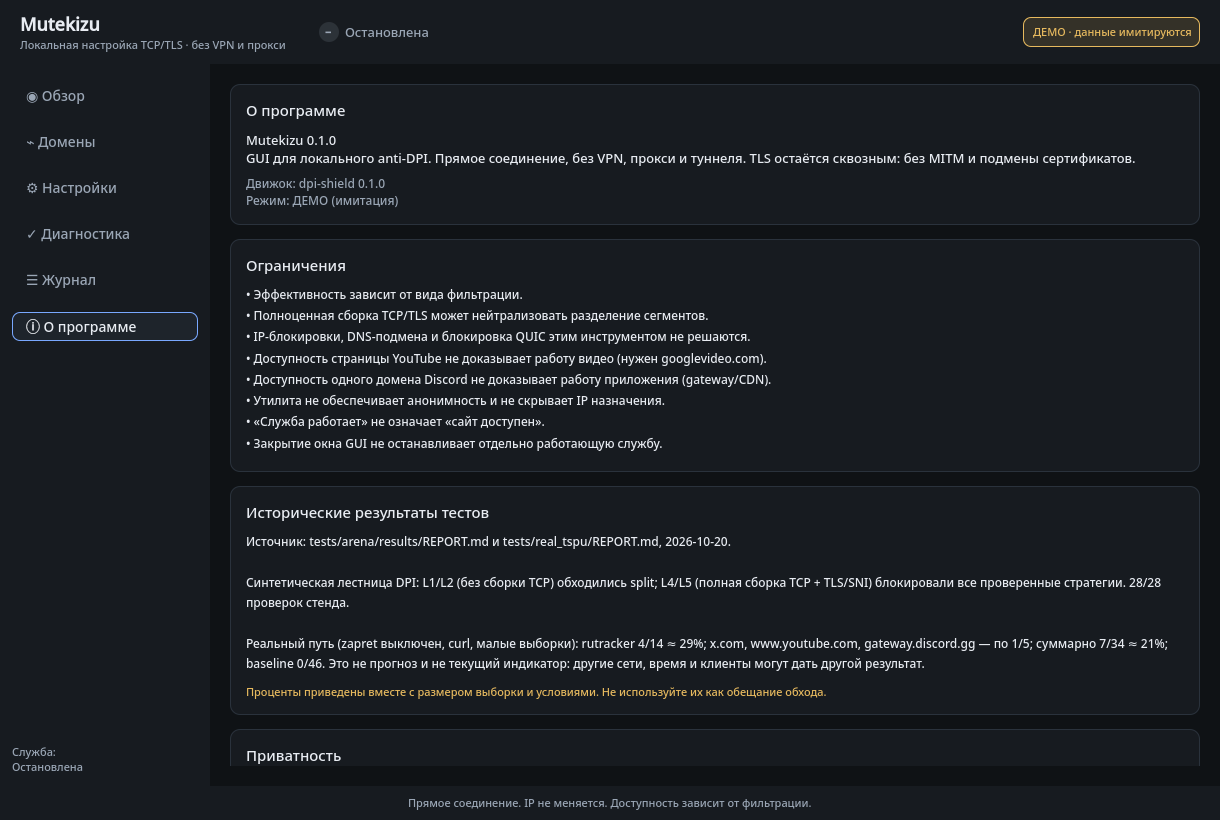
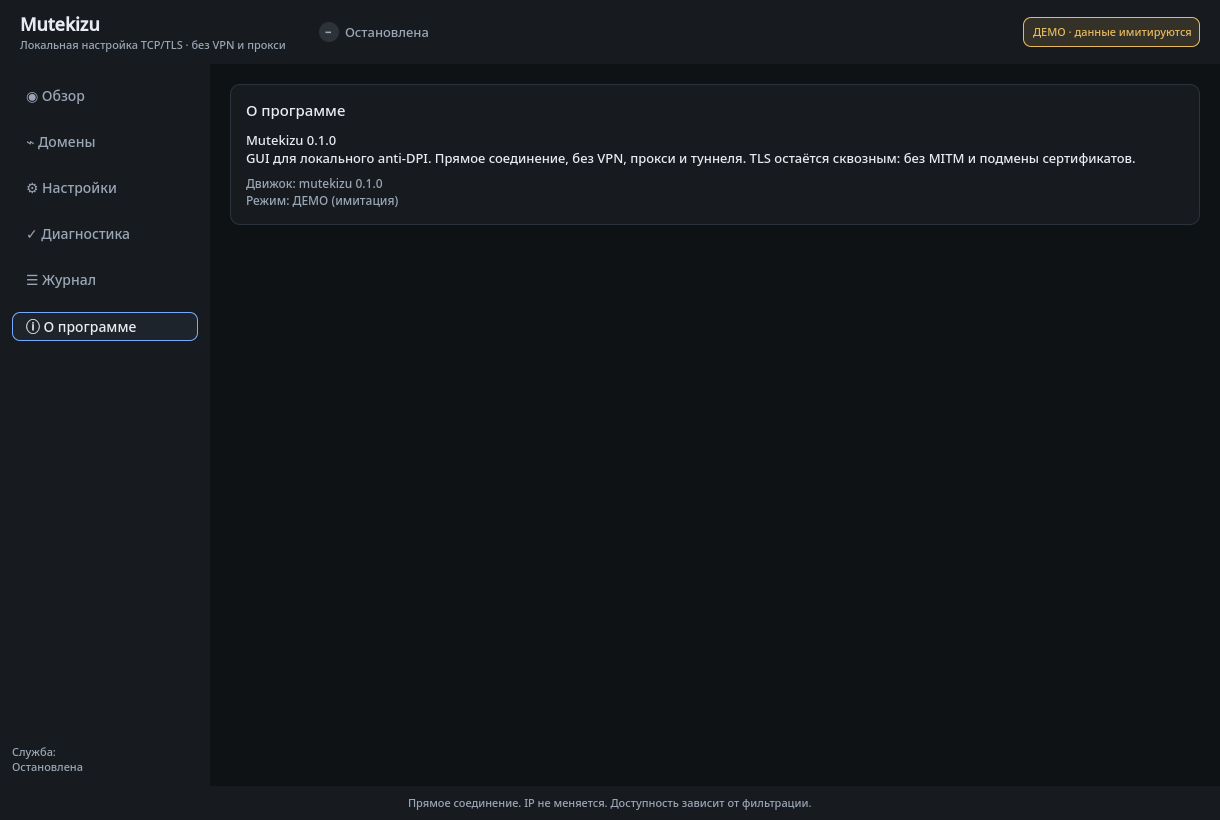
Simplify About page to program information only

diff --git a/gui/qml/AboutPage.qml b/gui/qml/AboutPage.qml
@@ -30,47 +30,6 @@ Item {
                 }
             }
 
-            Card {
-                Layout.fillWidth: true
-                title: qsTr("Ограничения")
-                Text {
-                    Layout.fillWidth: true
-                    text: qsTr("• Эффективность зависит от вида фильтрации.\n• Полноценная сборка TCP/TLS может нейтрализовать разделение сегментов.\n• IP-блокировки, DNS-подмена и блокировка QUIC этим инструментом не решаются.\n• Доступность страницы YouTube не доказывает работу видео (нужен googlevideo.com).\n• Доступность одного домена Discord не доказывает работу приложения (gateway/CDN).\n• Утилита не обеспечивает анонимность и не скрывает IP назначения.\n• «Служба работает» не означает «сайт доступен».
-• Закрытие окна GUI не останавливает отдельно работающую службу.")
-                    color: Theme.text; font.family: Theme.font; font.pixelSize: 12
-                    wrapMode: Text.WordWrap
-                    lineHeight: 1.25
-                }
-            }
-
-            Card {
-                Layout.fillWidth: true
-                title: qsTr("Исторические результаты тестов")
-                Text {
-                    Layout.fillWidth: true
-                    text: qsTr("Источник: tests/arena/results/REPORT.md и tests/real_tspu/REPORT.md, 2026-10-20.\n\nСинтетическая лестница DPI: L1/L2 (без сборки TCP) обходились split; L4/L5 (полная сборка TCP + TLS/SNI) блокировали все проверенные стратегии. 28/28 проверок стенда.\n\nРеальный путь (zapret выключен, curl, малые выборки): rutracker 4/14 ≈ 29%; x.com, www.youtube.com, gateway.discord.gg — по 1/5; суммарно 7/34 ≈ 21%; baseline 0/46. Это не прогноз и не текущий индикатор: другие сети, время и клиенты могут дать другой результат.")
-                    color: Theme.text; font.family: Theme.font; font.pixelSize: 12
-                    wrapMode: Text.WordWrap
-                    lineHeight: 1.2
-                }
-                Text {
-                    Layout.fillWidth: true
-                    text: qsTr("Проценты приведены вместе с размером выборки и условиями. Не используйте их как обещание обхода.")
-                    color: Theme.warn; font.family: Theme.font; font.pixelSize: 11
-                    wrapMode: Text.WordWrap
-                }
-            }
-
-            Card {
-                Layout.fillWidth: true
-                title: qsTr("Приватность")
-                Text {
-                    Layout.fillWidth: true
-                    text: qsTr("GUI не запрашивает и не хранит пароль sudo. Привилегированные операции: systemd D-Bus (Polkit) и узкий helper через pkexec. Журнал ограничен службой; содержимое соединений и TLS ClientHello не логируется.")
-                    color: Theme.muted; font.family: Theme.font; font.pixelSize: 12
-                    wrapMode: Text.WordWrap
-                }
-            }
         }
     }
 }
